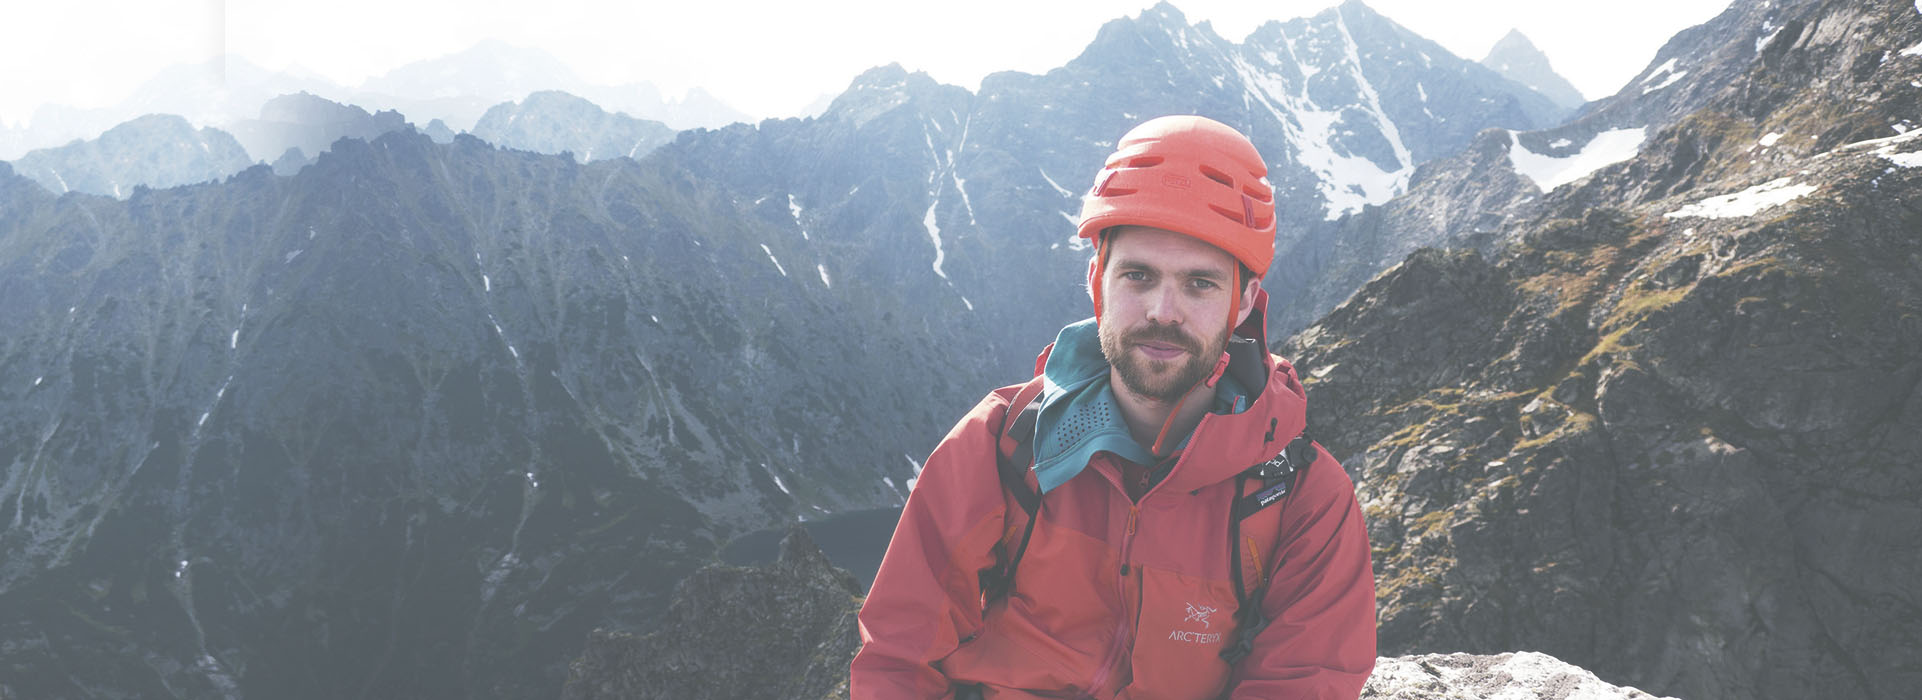
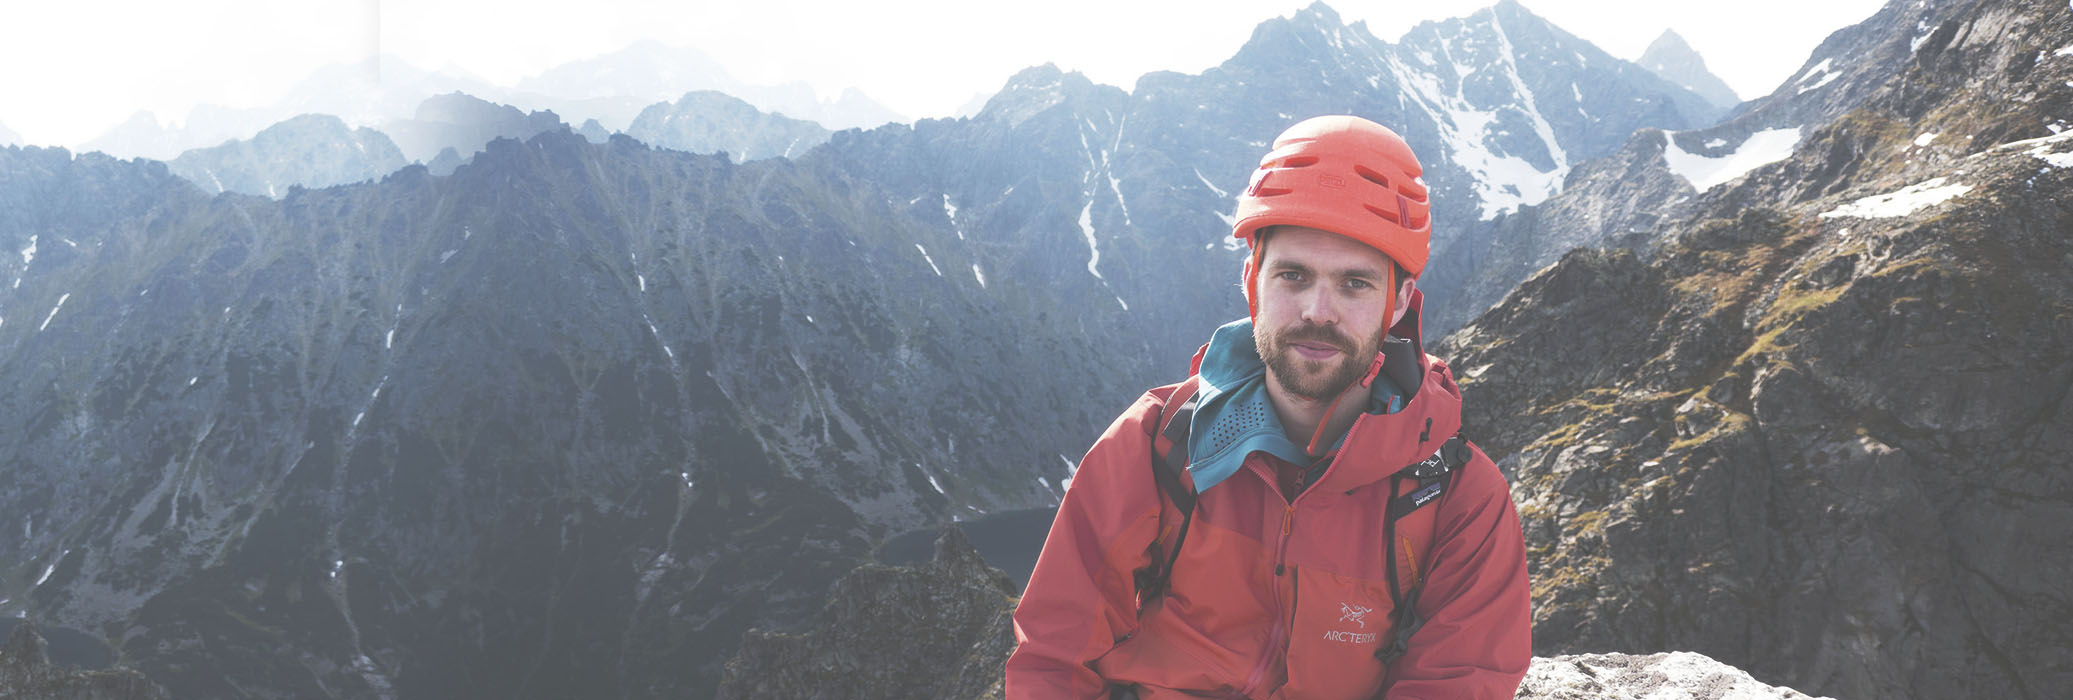
pixel-perfect for bg in header

diff --git a/GoIT/markup/works/Montains/src/index.html b/GoIT/markup/works/Montains/src/index.html
@@ -4,13 +4,30 @@
 	<meta charset="UTF-8">
 	<title>Document</title>
 	<link rel="stylesheet" type="text/css" href="css/style.css">
-	<script data-main = "js/main" src = "js/require.js"></script>
+	<script data-main="js/main" src="js/require.js"></script>
 </head>
 <body ng-controller="MyController">
 <!--content-->
-	<section class = "container">
+	<section class="container">
 	<!--head-->
-		<header class = "top">
+		<header class="top">
+			<section class="contant top__contant">
+				<nav class = "panel">
+					<object type="image/svg+xml" data="img/logo.svg" class = "logo panel__logo">
+	   					Ваш браузер не поддерживает формат SVG
+					</object>
+					<ul>
+						<li><a href="">1</a></li>
+						<li><a href="">2</a></li>
+						<li><a href="">3</a></li>
+						<li><a href="">4</a></li>
+						<li><a href="">5</a></li>
+						<li><a href="">6</a></li>
+						<li><a href="">7</a></li>
+					</ul>
+					<a href="">call us</a>
+				</nav>
+			</section>	
 		</header>
 	</section>
 <!--foot-->

diff --git a/GoIT/markup/works/Montains/src/css/style.css b/GoIT/markup/works/Montains/src/css/style.css
@@ -12,17 +12,30 @@ body {
   text-decoration: none; }
 
 .container {
-  background: green;
   min-height: calc(100vh - 1365px); }
 
 /*header*/
 .top {
   width: 100%;
-  height: 700px;
+  height: 698px;
   background-image: url(../img/man.jpg);
-  background-size: 101%;
+  background-position: -104px -2px;
   background-repeat: no-repeat;
   background-attachment: fixed; }
+  .top__contant {
+    margin: 0 auto; }
+
+.contant {
+  width: 1140px;
+  padding: 0 15px; }
+
+/*panel*/
+.logo {
+  width: 115px; }
+
+.panel__logo {
+  float: left;
+  margin: 30px 0 0 28px; }
 
 .footer {
   background: grey;

diff --git a/GoIT/markup/works/Montains/src/sass/style.sass b/GoIT/markup/works/Montains/src/sass/style.sass
@@ -12,17 +12,27 @@ body
   text-decoration: none
 
 .container
-  background: green
   min-height: calc(100vh - 1365px)
 /*header*/
 .top
   width: 100%
-  height: 700px
+  height: 698px
   background-image: url(../img/man.jpg)
-  background-size: 101%
+  background-position: -104px -2px
   background-repeat: no-repeat
   background-attachment: fixed
-
+  &__contant
+    margin: 0 auto
+.contant
+  width: 1140px
+  padding: 0 15px 
+/*panel*/
+.logo
+  width: 115px
+.panel
+  &__logo
+    float: left
+    margin: 30px 0 0 28px
 
 .footer
   background: grey
